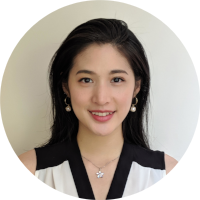
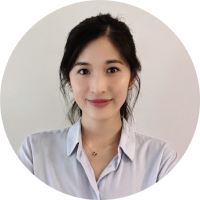
update board

diff --git a/_includes/footer.html b/_includes/footer.html
@@ -10,7 +10,7 @@
   </table>
   Contact us at <a href="mailto:info@tap-boston.com">info@tap-boston.org</a>
   <ul class="copyright">
-    <li>&copy; 2019 TAP-Boston. All rights reserved. Alpha by HTML5 UP.</li>
+    <li>&copy; 2021 TAP-Boston. All rights reserved. Alpha by HTML5 UP.</li>
   </ul>
 </footer>
 </body>

diff --git a/about/team.md b/about/team.md
@@ -9,39 +9,75 @@ permalink: /about/team
 
 <table class="team">
   <tr>
+    <td class="team-left"><img class="team-image" id="team-belle-lee" src="{{ site.baseurl }}/assets/images/team-images/team-belle-lee.png"/><br/>
+      <b>Belle Lee</b><br/>Co-President</td>
+    <td class="team-right"><b>Occupation:</b> Higher Ed Administration<br/><br/>
+        <b>Favorite thing about Taiwan/Taiwanese America:</b><br/> The people and the food!<br/><br/>
+	<b>Hobbies:</b> Scouting out new restaurants, reading, bullet journaling, knitting<br/><br/>
+	<b>Why TAP:</b> I want to help foster a sense of community, find ways to give back to Boston, and share the amazing aspects of Taiwanese culture!<br/><br/>
+    </td>
+  </tr>
+  <tr>
+    <td class="team-left"><img class="team-image" id="team-randall-toy" src="{{ site.baseurl }}/assets/images/team-images/team-randall-toy.png"/><br/>
+      <b>Randall Toy</b><br/>Co-President</td>
+    <td class="team-right"><b>Occupation:</b> Scientist at Gene Therapy Biotech<br/><br/>
+        <b>Favorite thing about Taiwan/Taiwanese America:</b><br/> The amazing people, night markets, and the food!<br/><br/>
+	<b>Hobbies:</b> Running, cooking, biking, tennis, and golf<br/><br/>
+	<b>Why TAP:</b> I want to be part of a great organization that makes a positive impact on students and the broader community in Boston.<br/><br/>
+    </td>
+  </tr>
+  <tr>
+    <td class="team-left"><img class="team-image" id="team-mathew-lee" src="{{ site.baseurl }}/assets/images/team-images/team-mathew-lee.png"/><br/>
+      <b>Mathew Lee</b><br/>Vice President</td>
+    <td class="team-right"><b>Occupation:</b> Environmental, Social, and Governance (ESG) Research<br/><br/>
+        <b>Favorite thing about Taiwan/Taiwanese America:</b><br/> How people have taken the mix of East and West influences in stride<br/><br/>
+	<b>Hobbies:</b> Biking, playing basketball, keeping up with current events<br/><br/>
+	<b>Why TAP:</b> Looking forward to building a community that celebrates a common cultural affinity<br/><br/>
+    </td>
+  </tr>
+  <tr>
     <td class="team-left"><img class="team-image" id="team-karen-lin" src="{{ site.baseurl }}/assets/images/team-images/team-karen-lin.png"/><br/>
-      <b>Karen Lin</b><br/>Co-President</td>
-    <td class="team-right"><b>Occupation:</b> Tax Associate at PwC<br/><br/>
+      <b>Karen Lin</b><br/>Treasurer</td>
+    <td class="team-right"><b>Occupation:</b> Accounting<br/><br/>
         <b>Favorite thing about Taiwan/Taiwanese America:</b><br/> Inclusive community and FOOD<br/><br/>
-	<b>Hobbies:</b> Yoga, watching reality TV, eating dessert, shopping at TJMaxx<br/><br/>
+	<b>Hobbies:</b> Yoga, watching reality TV, baking/eating dessert, taking pics of sunsets<br/><br/>
 	<b>Why TAP:</b> I joined TAP through the mentorship program and discovered a friendly and welcoming community that allows people to grow personally and professionally. There is a place for everyone in the TAP - those who want to give back to the community, build their career, expand their social circle, learn more about Taiwanese culture, and more!<br/><br/>
     </td>
   </tr>
   <tr>
-    <td class="team-left"><img class="team-image" id="team-joe-wong" src="{{ site.baseurl }}/assets/images/team-images/team-joe-wong.png"/><br/>
-      <b>Joe Wong</b><br/>Co-President</td>
-    <td class="team-right"><b>Occupation:</b> Software Engineering<br/><br/>
-        <b>Favorite thing about Taiwan/Taiwanese America:</b><br/> Did you know that Bubble tea was invented in Taiwan in the 80s? I had no idea until I joined TAP! I love the culture of niceness, and delicious food.<br/><br/>
-	<b>Hobbies:</b> Tennis, hiking, developing new apps, and the occasional foray into cooking something new.<br/><br/>
-	<b>Why TAP:</b> I'm amazed at how friendly and genuine the TAP community is! I want to continue the growth of TAP Boston as a welcoming and inclusive community.<br/><br/>
+    <td class="team-left"><img class="team-image" id="team-claire-peng" src="{{ site.baseurl }}/assets/images/team-images/team-claire-peng.png"/><br/>
+      <b>Claire Peng</b><br/>Secretary</td>
+    <td class="team-right"><b>Occupation:</b> Strategy Analyst at Accenture Strategy<br/><br/>
+        <b>Favorite thing about Taiwan/Taiwanese America:</b><br/> The convenience of public transportation, the beauty of Taipei city, and the cheap/delicious food!<br/><br/>
+	<b>Hobbies:</b> Traveling, working out, eating, exploring the city<br/><br/>
+	<b>Why TAP:</b> To help build this inclusive community. To meet new people and make meaningful connections. To connect more with my cultural identity and share experiences with awesome people!<br/><br/>
     </td>
   </tr>
   <tr>
     <td class="team-left"><img class="team-image" id="team-erica-yang" src="{{ site.baseurl }}/assets/images/team-images/team-erica-yang.png"/><br/>
-      <b>Erica Yang</b><br/>Vice President</td>
-    <td class="team-right"><b>Occupation:</b> Data Analyst<br/><br/>
-        <b>Favorite thing about Taiwan/Taiwanese America:</b><br/> People, night markets, MRT, 7-11, riverside bike trails, river tracing in Hualien, and even the awful weather in Taipei! :)<br/><br/>
-	<b>Hobbies:</b> Zumba, swimming and assembling furniture(?!)<br/><br/>
-	<b>Why TAP:</b> I got tremendous help and support from TAP people when I first moved here from Taipei, Taiwan. I would like to do the same for people coming here to start a new chapter in their lives.<br/><br/>
+      <b>Erica Yang</b><br/>Marketing Chair</td>
+    <td class="team-right"><b>Occupation:</b> I own and run 2 e-commerce businesses internationally. I'm also a real estate agent at Flyhomes.<br/><br/>
+        <b>Favorite thing about Taiwan/Taiwanese America:</b><br/> People, food and karaoke!!<br/><br/>
+	<b>Hobbies:</b> Doing puzzles, sudoku, play bridge or other board games, and recent favourite - watching tiktok lol<br/><br/>
+	<b>Why TAP:</b> Born and raised in Taiwan, I'd love to meet people who come from similar background or heritage and share our passion for Taiwanese culture! Also TAP people are like a big family that always makes me feel very welcome.<br/><br/>
     </td>
   </tr>
   <tr>
-    <td class="team-left"><img class="team-image" id="team-vanessa-chiang" src="{{ site.baseurl }}/assets/images/team-images/team-vanessa-chiang.png"/><br/>
-      <b>Vanessa Chiang</b><br/>Secretary</td>
-    <td class="team-right"><b>Occupation:</b> Data Science<br/><br/>
-        <b>Favorite thing about Taiwan/Taiwanese America:</b><br/> Getting to visit family + food<br/><br/>
-	<b>Hobbies:</b> Traveling/exploring, eating, spending time with family/friends<br/><br/>
-	<b>Why TAP:</b> TAP is a community that not only is very welcoming and supportive, but it is a community that allows me to grow. I started out as part of the mentorship program and have learned a great deal. Moreover, I’m new to Boston. When I moved to a new city where I didn’t know anyone, TAP was the community that I knew I could seek out and find a new home.<br/><br/>
+    <td class="team-left"><img class="team-image" id="team-chris-lo" src="{{ site.baseurl }}/assets/images/team-images/team-chris-lo.png"/><br/>
+      <b>Chris Lo</b><br/>Technology Chair</td>
+    <td class="team-right"><b>Occupation:</b> IT<br/><br/>
+        <b>Favorite thing about Taiwan/Taiwanese America:</b><br/> Bubble tea and the people!<br/><br/>
+	<b>Hobbies:</b> Exercise, VR, Piano<br/><br/>
+	<b>Why TAP:</b> I want to meet new people, and get more involved in the Boston community. TAP opens the door for me to do all that, and to contribute to the tech!<br/><br/>
+    </td>
+  </tr>
+  <tr>
+    <td class="team-left"><img class="team-image" id="team-amy-jin" src="{{ site.baseurl }}/assets/images/team-images/team-amy-jin.png"/><br/>
+      <b>Amy Jin</b><br/>Graphic Design Chair</td>
+    <td class="team-right"><b>Occupation:</b> Graduate Student at Northwestern<br/><br/>
+        <b>Favorite thing about Taiwan/Taiwanese America:</b><br/> F o o d and inviting community<br/><br/>
+	<b>Hobbies:</b> Painting (self-pubbing my art insta @ajin.arts), board games, racquet sports, switch games, casual hiking (emphasis on casual), reading, hunting down food festivals<br/><br/>
+	<b>Why TAP:</b> I want to learn more about Taiwanese culture through engaging with a fun-loving and passionate community. I believe in TAP's ability to drive positive impact in our surrounding communities.<br/><br/>
     </td>
   </tr>
   <tr>
@@ -63,75 +99,40 @@ permalink: /about/team
     </td>
   </tr>
   <tr>
-    <td class="team-left"><img class="team-image" id="team-amy-jin" src="{{ site.baseurl }}/assets/images/team-images/team-amy-jin.png"/><br/>
-      <b>Amy Jin</b><br/>Graphic Design Chair</td>
-    <td class="team-right"><b>Occupation:</b> Graduate Student at Northwestern<br/><br/>
-        <b>Favorite thing about Taiwan/Taiwanese America:</b><br/> F o o d and inviting community<br/><br/>
-	<b>Hobbies:</b> Painting (self-pubbing my art insta @ajin.arts), reading, casual hiking (emphasis on casual), barre workout classes, bonding with my dog (self-pubbing my soon-to-be dog insta @twix_got_trix), racquet sports, Overcooked, board games galore.<br/><br/>
-	<b>Why TAP:</b> I want to learn more about Taiwanese culture through engaging with a fun-loving and passionate community. I believe in TAP's ability to drive positive impact in our surrounding communities.<br/><br/>
+    <td class="team-left"><img class="team-image" id="team-kara-chuang" src="{{ site.baseurl }}/assets/images/team-images/team-kara-chuang.png"/><br/>
+      <b>Kara Chuang</b><br/>Professional Development Chair</td>
+    <td class="team-right"><b>Occupation:</b> Undergraduate student at UMass Amherst<br/><br/>
+        <b>Favorite thing about Taiwan/Taiwanese America:</b><br/> How generous the locals are, authentic Taiwanese food (Hakka ban tiao noodles are my favorite!!), hot springs, 7/11s and Family Marts on every street, going up to the mountains with my grandparents, and so so much more.<br/><br/>
+	<b>Hobbies:</b> Traveling, cooking, playing piano, watching Ghibli films and Asian dramas, and I started a small biz
+	 on Instagram over quarantine!<br/><br/>
+	<b>Why TAP:</b> I want to increase my involvement in the Taiwanese community in Boston and nationally. I will be able to achieve this through TAP by promoting Taiwanese culture, contribute to important causes, and fostering an inclusive community!<br/><br/>
     </td>
   </tr>
   <tr>
-    <td class="team-left"><img class="team-image" id="team-lichen-pan" src="{{ site.baseurl }}/assets/images/team-images/team-lichen-pan.png"/><br/>
-      <b>Li-Chen Pan</b><br/>Marketing Chair</td>
-    <td class="team-right"><b>Occupation:</b> Healthcare Consultant<br/><br/>
-        <b>Favorite thing about Taiwan/Taiwanese America:</b> The community and the food!<br/><br/>
-	<b>Hobbies:</b> Knitting, plants and exploring the city<br/><br/>
-	<b>Why TAP:</b> To help build a welcoming community, to gain information and understanding through social identify, and to support local communities and build a sense of belonging.<br/><br/>
+    <td class="team-left"><img class="team-image" id="team-jonathan-yeh" src="{{ site.baseurl }}/assets/images/team-images/team-jonathan-yeh.png"/><br/>
+      <b>Jonathan Yeh</b><br/>EDGE Mentorship Co-Chair</td>
+    <td class="team-right"><b>Occupation:</b> Bioprocess Development Engineer<br/><br/>
+        <b>Favorite thing about Taiwan/Taiwanese America:</b><br/> The friendly people, delicious food, and the reliable public transit system.<br/><br/>
+	<b>Hobbies:</b> Hiking, going to concerts/music festivals, working on my car<br/><br/>
+	<b>Why TAP:</b> I want to take part in helping to build a fun and inclusive community for Taiwanese/Taiwanese-Americans in the Boston area.<br/><br/>
     </td>
   </tr>
   <tr>
-    <td class="team-left"><img class="team-image" id="team-randall-toy" src="{{ site.baseurl }}/assets/images/team-images/team-randall-toy.png"/><br/>
-      <b>Randall Toy</b><br/>EDGE Mentorship Chair</td>
-    <td class="team-right"><b>Occupation:</b> Scientist at Gene Therapy Biotech<br/><br/>
-        <b>Favorite thing about Taiwan/Taiwanese America:</b><br/> The amazing people, night markets, and the food!<br/><br/>
-	<b>Hobbies:</b> Running, cooking, biking, tennis, and golf<br/><br/>
-	<b>Why TAP:</b> I want to be part of a great organization that makes a positive impact on students and the broader community in Boston.<br/><br/>
+    <td class="team-left"><img class="team-image" id="team-allison-sheu" src="{{ site.baseurl }}/assets/images/team-images/team-allison-sheu.png"/><br/>
+      <b>Allison Sheu</b><br/>EDGE Mentorship Co-Chair</td>
+    <td class="team-right"><b>Occupation:</b> Healthcare Investor<br/><br/>
+        <b>Favorite thing about Taiwan/Taiwanese America:</b><br/> Food and family!<br/><br/>
+	<b>Hobbies:</b> Reading (about science, psychology, and politics,) trying new restaurants, going to art museums, tennis, classical music, watching live theater<br/><br/>
+	<b>Why TAP:</b> Amazing community of caring, passionate, and fun folks<br/><br/>
     </td>
   </tr>
   <tr>
-    <td class="team-left"><img class="team-image" id="team-evaline-ju" src="{{ site.baseurl }}/assets/images/team-images/team-evaline-ju.png"/><br/>
-      <b>Evaline Ju</b><br/>Treasurer</td>
-    <td class="team-right"><b>Occupation:</b> Software Engineer<br/><br/>
-        <b>Favorite thing about Taiwan/Taiwanese America:</b><br/> Family and food<br/><br/>
-	<b>Hobbies:</b> Tennis, reading, occasional rock climbing<br/><br/>
-	<b>Why TAP:</b> TAP has been a welcoming community since I first moved to the Boston area, and I’d like to help others find their community as well.<br/><br/>
-    </td>
-  </tr>
-  <tr>
-    <td class="team-left"><img class="team-image" id="team-chris-lo" src="{{ site.baseurl }}/assets/images/team-images/team-chris-lo.png"/><br/>
-      <b>Chris Lo</b><br/>Technology Chair</td>
-    <td class="team-right"><b>Occupation:</b> IT<br/><br/>
-        <b>Favorite thing about Taiwan/Taiwanese America:</b><br/> Bubble tea and the people!<br/><br/>
-	<b>Hobbies:</b> Exercise, VR, training my parakeets, eating desserts<br/><br/>
-	<b>Why TAP:</b> I want to meet new people, and get more involved in the Boston community. TAP opens the door for me to do all that, and to contribute to the tech!<br/><br/>
-    </td>
-  </tr>
-  <tr>
-    <td class="team-left"><img class="team-image" id="team-belle-lee" src="{{ site.baseurl }}/assets/images/team-images/team-belle-lee.png"/><br/>
-      <b>Belle Lee</b><br/>Social/Cultural Co-Chair</td>
-    <td class="team-right"><b>Occupation:</b> Higher Ed Administration<br/><br/>
-        <b>Favorite thing about Taiwan/Taiwanese America:</b><br/> The people and the food!<br/><br/>
-	<b>Hobbies:</b> Scouting out new restaurants, reading, bullet journaling, knitting<br/><br/>
-	<b>Why TAP:</b> I want to help foster a sense of community, find ways to give back to Boston, and share the amazing aspects of Taiwanese culture!<br/><br/>
-    </td>
-  </tr>
-  <tr>
-    <td class="team-left"><img class="team-image" id="team-claire-peng" src="{{ site.baseurl }}/assets/images/team-images/team-claire-peng.png"/><br/>
-      <b>Claire Peng</b><br/>Social/Cultural Co-Chair</td>
-    <td class="team-right"><b>Occupation:</b> Strategy Analyst at Accenture Strategy<br/><br/>
-        <b>Favorite thing about Taiwan/Taiwanese America:</b><br/> The convenience of public transportation, the beauty of Taipei city, and the cheap/delicious food!<br/><br/>
-	<b>Hobbies:</b> Traveling, working out, eating, exploring the city<br/><br/>
-	<b>Why TAP:</b> To help build this inclusive community. To meet new people and make meaningful connections. To connect more with my cultural identity and share experiences with awesome people!<br/><br/>
-    </td>
-  </tr>
-  <tr>
-    <td class="team-left"><img class="team-image" id="team-michelle-hsu" src="{{ site.baseurl }}/assets/images/team-images/team-michelle-hsu.png"/><br/>
-      <b>Michelle Hsu</b><br/>Professional Development Chair</td>
-    <td class="team-right"><b>Occupation:</b> Statistician, Frontier Science<br/><br/>
-        <b>Favorite thing about Taiwan/Taiwanese America:</b><br/> Eating Taiwanese shaved ice! Also, I admire people's recycling knowledge, so as their respectful social etiquette with the elderly.<br/><br/>
-	<b>Hobbies:</b> Jogging along the Charles River, reading, and yoga.<br/><br/>
-	<b>Why TAP:</b> I met many inspiring Asian American professionals/leaders here in Boston. They volunteer and support the local Asian communities in all aspects (e.g. food, health, children and youth). What they have been doing motivates me to contribute as well. I found out about TAP-Boston and realized the opportunity to serve the local community (with fun and friendly new friends).<br/><br/>
+    <td class="team-left"><img class="team-image" id="team-vanessa-chiang" src="{{ site.baseurl }}/assets/images/team-images/team-vanessa-chiang.png"/><br/>
+      <b>Vanessa Chiang</b><br/>EDGE Advisor</td>
+    <td class="team-right"><b>Occupation:</b> Data Science<br/><br/>
+        <b>Favorite thing about Taiwan/Taiwanese America:</b><br/> Getting to visit family + food<br/><br/>
+	<b>Hobbies:</b> Traveling/exploring, eating, spending time with family/friends<br/><br/>
+	<b>Why TAP:</b> TAP is a community that not only is very welcoming and supportive, but it is a community that allows me to grow. I started out as part of the mentorship program and have learned a great deal. Moreover, I’m new to Boston. When I moved to a new city where I didn’t know anyone, TAP was the community that I knew I could seek out and find a new home.<br/><br/>
     </td>
   </tr>
 </table>

diff --git a/about/supporters-and-partners.md b/about/supporters-and-partners.md
@@ -9,6 +9,12 @@ permalink: /about/supporters-and-partners
 
 <div>
   <p>
+    <a href="https://www.firstrepublic.com/">
+      <img class="partner-logo" src="/assets/images/supporters-and-partners-images/first-republic-bank-logo.png"/></a></p>
+      <p>Founded in 1985, <b>First Republic</b> and its subsidiaries offer private banking, private business banking and private wealth management, including investment, trust and brokerage services. First Republic specializes in delivering exceptional, relationship-based service and offers a complete line of products, including residential, commercial and personal loans, deposit services, and wealth management. Services are offered through preferred banking or wealth management offices primarily in San Francisco, Palo Alto, Los Angeles, Santa Barbara, Newport Beach and San Diego, California; Portland, Oregon; Boston, Massachusetts; Palm Beach, Florida; Greenwich, Connecticut; New York, New York; and Jackson, Wyoming. First Republic is a constituent of the S&P 500 Index and KBW Nasdaq Bank Index.</p></div><hr>
+
+<div>
+  <p>
     <a href="http://www.neacp.com/home.html">
       <img class="partner-logo-low-res" src="/assets/images/supporters-and-partners-images/neacp-logo.png"/></a></p>
   <p><b>New England Association of Chinese Professionals</b>, known as NEACP, is a non-profit organization that aims to create a platform for professionals from Taiwan, Hong Kong, China and the US to actively converse, share and exchange opinions in schools of both science and liberal arts. By generating an intersection between science and liberal arts, NEACP wishes to encourage the communication between these four regions academically, scientifically, technically, socially and culturally.</p></div><hr>
@@ -18,39 +24,3 @@ permalink: /about/supporters-and-partners
     <a href="https://www.ocac.gov.tw/OCAC/Eng/">
       <img class="partner-logo" src="/assets/images/supporters-and-partners-images/ocac-roc-logo.png"/></a></p>
   <p>The <b>Overseas Community Affairs Commission</b> serves as a cultural, education, economic and informational exchanges organization between Taiwan and the overseas Taiwanese and Chinese descent communities.</p></div><hr>
-
-<div>
-  <p>
-    <a href="https://bcnc.net/">
-      <img class="partner-logo" src="/assets/images/supporters-and-partners-images/bcnc-logo.png"/></a></p>
-  <p><b>Boston Chinatown Neighborhood Center</b> (BCNC) empowers Asians and new immigrants to build healthy families, achieve greater economic success, and contribute to thriving communities by providing a broad range of innovative and family-centered programs and services to more than 8,000 children, youth, and adults every year. The mission of BCNC is to ensure that the children, youth, and families we serve have the resources and supports they need to achieve greater economic success and social well-being. BCNC believes that families have enormous potential to thrive, and that when immigrants are able to participate fully in society and create their own success stories, all of society benefits.</p></div><hr>
-
-<div>
-  <p>
-    <a href="https://www.firstrepublic.com/">
-      <img class="partner-logo" src="/assets/images/supporters-and-partners-images/first-republic-bank-logo.png"/></a></p>
-      <p>Founded in 1985, <b>First Republic</b> and its subsidiaries offer private banking, private business banking and private wealth management, including investment, trust and brokerage services. First Republic specializes in delivering exceptional, relationship-based service and offers a complete line of products, including residential, commercial and personal loans, deposit services, and wealth management. Services are offered through preferred banking or wealth management offices primarily in San Francisco, Palo Alto, Los Angeles, Santa Barbara, Newport Beach and San Diego, California; Portland, Oregon; Boston, Massachusetts; Palm Beach, Florida; Greenwich, Connecticut; New York, New York; and Jackson, Wyoming. First Republic is a constituent of the S&P 500 Index and KBW Nasdaq Bank Index.</p></div><hr>
-
-<div>
-  <p>
-    <a href="https://www.sakurawaltham.com/">
-      <img class="partner-logo" src="/assets/images/supporters-and-partners-images/sakura-waltham-logo.jpg"/></a></p>
-      <p><b>Sakura</b> Japanese Restaurant has been serving the best food for years. We only use the finest and freshest ingredients. We also have a full Catering menu for your next party or event. Call us today and let our family be part of your family.</p></div><hr>
-
-<div>
-  <p>
-    <a href="https://www.flourbakery.com/">
-      <img class="partner-logo" src="/assets/images/supporters-and-partners-images/flour-bakery-logo.jpg"/></a></p>
-      <p><b>Flour Bakery: </b>Crusty, crackling baguettes warm from the steaming oven… buttery, raisin-filled brioche shaped in a swirl and drizzled with sweet icing… silky-smooth chocolate cream pie… lemon curd cakes filled with raspberry preserves… fresh, made-to-order salads and sandwiches. Imagine enjoying a muffin still warm from the oven, made with real butter and fresh seasonal fruit, alongside a cafe latte in an oversized mug.</p></div><hr>
-
-<div>
-  <p>
-    <a href="https://www.jeanandleekitchen.net/">
-      <img class="partner-logo" src="/assets/images/supporters-and-partners-images/jean-and-lee-kitchen-logo.jpg"/></a></p>
-      <p><b>Jean and Lee Kitchen: </b>We have been serving high quality Asian cuisine in Newton Upper Falls for many years. A local favorite for Newton Upper Falls residents, customers speak highly of our fresh, authentic dishes and the friendly atmosphere.</p></div><hr>
-
-<div>
-  <p>
-    <a href="https://www.meimeiboston.com/">
-      <img class="partner-logo" src="/assets/images/supporters-and-partners-images/mei-mei-logo.jpg"/></a></p>
-      <p><b>Mei Mei: </b>We are an award winning, sibling-founded restaurant and food truck catering business serving up creative Chinese-American cuisine made from locally sourced and sustainable ingredients. We are proud to serve humanely raised meat and small farm produce from some of the best producers in New England.</p></div>

diff --git a/index.md b/index.md
@@ -67,18 +67,18 @@ Official TAP-Boston swag. Now available at <a href="https://www.bonfire.com/stor
 
 <table class="index-team">
   <tr>
-    <td><a href="{{ site.baseurl}}/about/team#team-karen-lin"><img class="index-team" src="{{ site.baseurl }}/assets/images/team-images/team-karen-lin.png"/></a></td>
-    <td><a href="{{ site.baseurl}}/about/team#team-joe-wong"><img class="index-team" src="{{ site.baseurl }}/assets/images/team-images/team-joe-wong.png"/></a></td>
-    <td><a href="{{ site.baseurl}}/about/team#team-erica-yang"><img class="index-team" src="{{ site.baseurl }}/assets/images/team-images/team-erica-yang.png"/></a></td>
-    <td><a href="{{ site.baseurl}}/about/team#team-vanessa-chiang"><img class="index-team" src="{{ site.baseurl }}/assets/images/team-images/team-vanessa-chiang.png"/></a></td>
-    <td><a href="{{ site.baseurl}}/about/team#team-michelle-hsu"><img class="index-team" src="{{ site.baseurl }}/assets/images/team-images/team-michelle-hsu.png"/></a></td>
+    <td><a href="{{ site.baseurl}}/about/team#team-belle-lee"><img class="index-team" src="{{ site.baseurl }}/assets/images/team-images/team-belle-lee.png"/></a></td>
+    <td><a href="{{ site.baseurl}}/about/team#team-randy-toy"><img class="index-team" src="{{ site.baseurl }}/assets/images/team-images/team-randy-toy.png"/></a></td>
+    <td><a href="{{ site.baseurl}}/about/team#team-mathew-lee"><img class="index-team" src="{{ site.baseurl }}/assets/images/team-images/team-mathew-lee.png"/></a></td>
+    <td><a href="{{ site.baseurl}}/about/team#team-claire-peng"><img class="index-team" src="{{ site.baseurl }}/assets/images/team-images/team-claire-peng.png"/></a></td>
+    <td><a href="{{ site.baseurl}}/about/team#team-kara-chuang"><img class="index-team" src="{{ site.baseurl }}/assets/images/team-images/team-kara-chuang.png"/></a></td>
   </tr>
   <tr class="index-team-tags">
-    <td><b>Karen Lin</b><br/>Co-President</td>
-    <td><b>Joe Wong</b><br/>Co-President</td>
-    <td><b>Erica Yang</b><br/>Vice President</td>
-    <td><b>Vanessa Chiang</b><br/>Secretary</td>
-    <td><b>Michelle Hsu</b><br/>Professional Development Chair</td>
+    <td><b>Belle Lee</b><br/>Co-President</td>
+    <td><b>Randy Toy</b><br/>Co-President</td>
+    <td><b>Mathew Lee</b><br/>Vice President</td>
+    <td><b>Claire Peng</b><br/>Secretary</td>
+    <td><b>Kara Chuang</b><br/>Professional Development Chair</td>
   </tr>
 </table>
 

diff --git a/programs/programs.md b/programs/programs.md
@@ -12,10 +12,10 @@ permalink: /programs/tap-programs
   <p>	       
   TAP’s Professional Development program focuses on helping community members develop the knowledge and practical skills needed to succeed in the workplace and life. A variety of workshops on topics such as networking, improv. comedy, goal planning, etc. aim to fulfill the needs of young professionals looking for self development.<br/><br/>
   For more information, contact our Professional Development Chair:<br/>
-  <a href="mailto:michelle.hsu@tap-boston.org">michelle.hsu@tap-boston.org</a>
+  <a href="mailto:kara.chuang@tap-boston.org">kara.chuang@tap-boston.org</a>
   </p>
-
-  <hr id="social-and-cultural">
+  
+  <!-- <hr id="social-and-cultural">
 
   <h3>Social & Cultural Events</h3>
   <p>
@@ -23,8 +23,8 @@ permalink: /programs/tap-programs
   To get in touch, contact our Social Chairs:<br/>
   <a href="mailto:belle.lee@tap-boston.org">belle.lee@tap-boston.org</a><br/>
   <a href="mailto:claire.peng@tap-boston.org">claire.peng@tap-boston.org</a>
-  </p>
-
+  </p> -->
+  
   <hr id="community-development">
 
   <h3>Community Development</h3>

diff --git a/programs/edge-program.md b/programs/edge-program.md
@@ -73,7 +73,7 @@ permalink: /programs/edge-program
   <h2><strong>Deadlines</strong></h2>
 
   <p>
-  The application deadline for EDGE 2021-2022 is <strong>October 8, 2021</strong>.
+  The application deadline for EDGE 2021-2022 was <strong>October 8, 2021</strong>.
   </p>
 </div>
 
@@ -95,5 +95,5 @@ permalink: /programs/edge-program
 
 <h2>Questions?</h2>
 
-Get in touch with us! Find us at our events or e-mail the EDGE Mentorship chair at <a href="mailto:randall.toy@tap-boston.org">randall.toy@tap-boston.org</a>
+Get in touch with us! Find us at our events or contact our EDGE Mentorship chairs at <a href="mailto:jonathan.yeh@tap-boston.org">jonathan.yeh@tap-boston.org</a> and <a href="mailto:allison.sheu@tap-boston.org">allison.sheu@tap-boston.org</a>
 </div>
